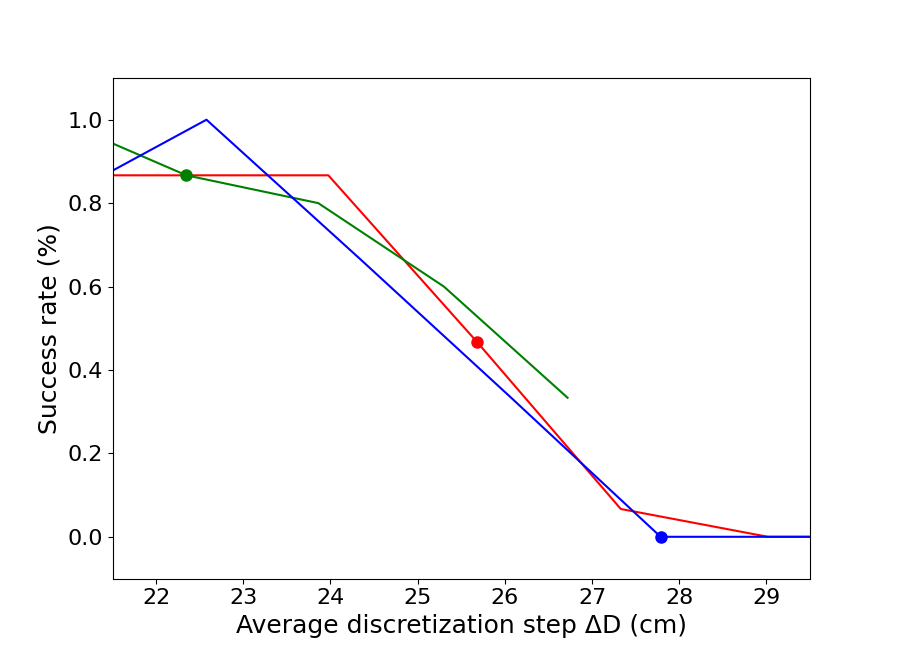
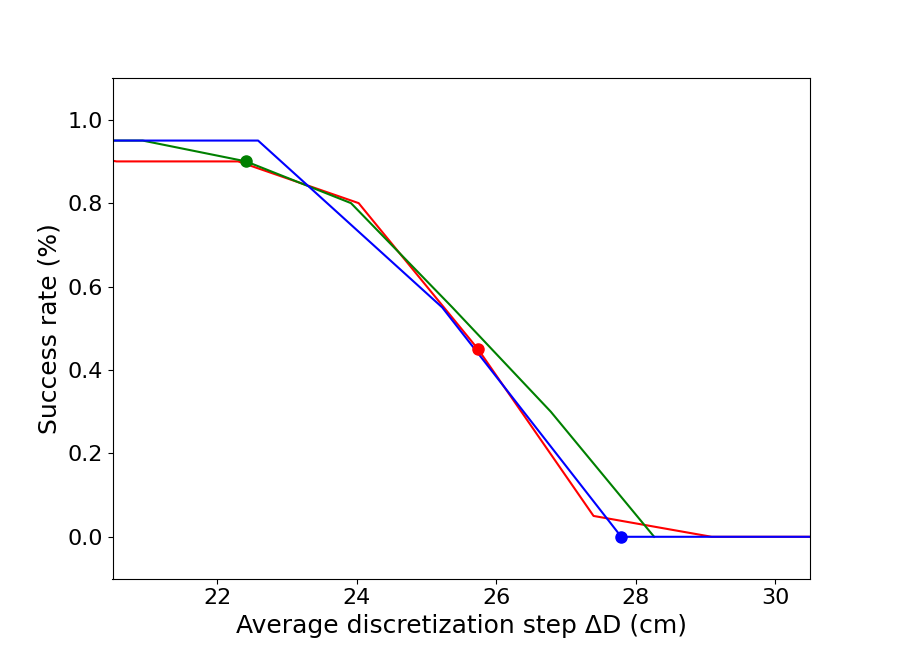
Fix chapitre MIP.

diff --git a/chap_4_mip_sl1m/mip_sl1m.tex b/chap_4_mip_sl1m/mip_sl1m.tex
@@ -257,7 +257,7 @@ Indeed, the guide paths can be discretized to obtain a desired discretization $\
 Contrary to the contact planner presented in the previous chapter, one step is made with a cyclic gait for each discretized root configuration along the guide.
 
 % Constraining the feet orientation.
-The footsteps orientation $R$ can follow the root orientation along the guide (blue arrows in Figure \ref{fig:mip:bauzil_guide_surfaces}).
+The footsteps orientation $R$ can follow the robot root orientation (blue arrows in Figure \ref{fig:mip:bauzil_guide_surfaces}).
 With this approach, $R$ can be given as input of the problem (\ref{eq:mbc:mip_complete:rotation}), thus drastically reducing the dimension of the problem.
 
 % Pruning irrelevant contact surfaces
@@ -373,8 +373,9 @@ Learning curves of LEAS without contact planner, referred as LEAS-P1 (Chapter \r
 %The P2 validation increases its probability to meet a terminal condition (i.e. failing the contact planning) and forces LEAS to adapt its behavior to succeed with the contact planner, resulting in a lower average reward per episode.
 The episode rewards of LEAS-P2 are lower than LEAS-P1 due to the contact planning constraints. 
 As described earlier, we discretize the guide so that when moving at the desired velocity $v_{desired}=0.10$ m/s, the discretization step is equal to $\Delta D=28cm$. 
-This value is at the limit of the capability of the TALOS robot on flat ground. 
-As a consequence, our steering method will have to move the robot root slower to succeed the contact planning on more complex terrains, thus resulting in a lower average reward.
+This value is at the limit of the feasiblity constraints $\mathcal{F}$ (Appendix \ref{appendix:feasibility_constr}) of the TALOS robot on flat ground. 
+Consequently, our steering method has to move the robot root slower to succeed the contact planning on more complex terrains, thus resulting in a lower average reward.
+
 
 
 \subsection{LEAS Results}
@@ -395,7 +396,7 @@ As a consequence, our steering method will have to move the robot root slower to
 % For this one, 5 trajectories should suffice.
 % So it's 2 results on the same scene.
 
-We expect LEAS-P2 to find, depending on the terrain, the maximum discretization step $\Delta D$ feasible by the contact planner along the guide for $N=N_{ref}$.
+We expect LEAS-P2 to find, depending on the terrain, the a sufficiently high discretization step $\Delta D$ feasible by the contact planner along the guide for $N=N_{ref}$.
 On difficult terrains such as rubbles and stairs, LEAS should lower the robot root velocity, and thus $\Delta D$, to ensure the success of the contact planning. 
 On contrary, we expect the robot to push this velocity on easy ones such as flat ground.
 
@@ -425,7 +426,7 @@ On contrary, we expect the robot to push this velocity on easy ones such as flat
             \includegraphics[trim={1cm 0cm 0cm 0cm},clip,width=\textwidth,height=4.5cm]{Figures/Chapter_MIP_SL1M/res_mip/stairs_down.png}
         \end{subfigure}
         \begin{subfigure}{0.48\linewidth}
-            \includegraphics[trim={0cm 0cm 2cm 1.8cm}, clip,width=\textwidth,height=4.5cm]{Figures/Chapter_MIP_SL1M/res_mip/MIP_stairs/FIGURE_MIP_STAIRS_DOWN.png}
+            \includegraphics[trim={0cm 0cm 2cm 1.8cm}, clip,width=\textwidth,height=4.5cm]{Figures/Chapter_MIP_SL1M/res_mip/MIP_stairs/FIGURE_MIP_STAIRS_DOWN_2.png}
         \end{subfigure}
         \caption{Stairs (down)}
         \label{fig:mip:minimizing_basic:1}
@@ -446,34 +447,36 @@ On contrary, we expect the robot to push this velocity on easy ones such as flat
 \end{figure}
 We compare LEAS-P1, LEAS-P2 and RB-Kino on the rubbles and stairs up and down scenarios (Figure \ref{fig:mip:minimizing_basic}).
 For each scenario, the initial robot root is oriented toward the goal with a velocity $v_{init}=0.05$ m/s.
-Each Steering Method (SM) controls the root velocity to potentially reach the desired velocity $v_{desired}=0.10$ m/s, which corresponds to a discretization step $\Delta D=28$ cm with $N_{ref}=14$ at the limit of the contact planning feasibility on flat ground.
+Each steering method controls the root velocity to potentially reach the desired velocity $v_{desired}=0.10$ m/s, which corresponds to a discretization step $\Delta D=28$ cm with $N_{ref}=14$ at the edge of the feasibility constraints $\mathcal{F}$ on flat ground.
 
 We test our steering methods for different values of $N$. 
 We keep 1 out of $N$ configurations along the guide ($N \in \{8,20\}$), which permits to cover a wide discretization step range.
 Indeed, increasing the $N$ value implies a higher average $\Delta D$ along the guide and inversely.
 Each value is tested on 30 trajectories per scenario.
-We represent the result of the steering methods with $N=N_{ref}$ by some colored dots, the value LEAS-P2 has been trained on.
+We represent the result of the steering methods for $N=N_{ref}$ by some colored dots, the value LEAS-P2 has been trained on.
 
 We can observe the success rate of the steering methods depending on their average discretization step for each scenario.
 %The stairs scenario is relatively easy for the steering methods (Figure \ref{fig:mip:minimizing_basic:0}).
-On stairs (up) scenario, results show that they always succeed the contact planning for all $\Delta D \leq 27 cm$.
+On stairs scenarios, results show that they always succeed the contact planning for all $\Delta D \leq 27 cm$.
 However, it is not the case for the rubble scenario that is more complex. Indeed, depending on the reduced set of candidate surfaces for each step, no solution may be found satisfying the equilibrium constraints, and thus the problem may be infeasible.
-Interestingly, we can observe that due to the equilibrium constraints in $\mathcal{F}$, it is easier for the contact planner to climb stairs up than to climb them down. \textcolor{blue}{REMOVE THE BIG HM 80, and retry on stairs down.}
+%Interestingly, we can observe that due to the equilibrium constraints in $\mathcal{F}$, it is easier for the contact planner to climb stairs up than to climb them down. \textcolor{blue}{REMOVE THE BIG HM 80, and retry on stairs down.}
 
 LEAS-P1 is trained to follow the reference velocity $v_{desired}$.
 However, it rarely reaches this velocity in complex scenarios, thus resulting in an average $\Delta D \approx 26$ cm with $N_{ref}$.
 RB-Kino is tuned to keep an average constant velocity $v_{desired}$ all along the guide. As a result, its discretization is mostly uniform along it with $\delta D \approx 28$ cm.
 
-With $N_{ref}$, RB-Kino fails our 3 scenarios. This result is expected as its average discretization step draws near the feasibility limits.
+With $N_{ref}$, RB-Kino fails our 3 scenarios. This result is expected as its average discretization step draws near (or out) the limits of feasibility constraints.
 As a consequence, RB-Kino requires a fine-tuning on the guide discretization adapted to each scenario ($N \leq N_{ref}$).
 In comparison, LEAS-P1 navigates the terrain slower and a value $N_{ref}$ is sufficient for the stairs scenarios. 
 However, this value does not hold anymore on the rubbles (only 50\% of success). 
 Consequently, LEAS-P1 also requires a fine-tuning of its discretization to generate feasible guide paths in this scenario.
 
-Our solution LEAS-P2 on the other hand performs well across all scenarios with $N_{ref}$ it has been trained on (green dots).
-Results show that our method succeeds in having a near maximum feasible discretization step to succeed in the MIP contact planning. 
+Our solution LEAS-P2 on the other hand succeeds all scenarios for $N_{ref}$ it has been trained on (green dots).
+Results show that our method always adopt a sufficiently high discretization step to succeed in the MIP contact planning along the guides. %having a near maximum feasible discretization step to succeed in the MIP contact planning. 
 As a result, it does not require further fine-tuning.
-On average, we can see that LEAS-P2 exhibits a value $\Delta D \in [22, 25]$ cm depending on the terrain difficulty. \textcolor{blue}{To modify after I get the expe on flat floor.}
+However, we can observe that LEAS-P2 considers the stairs (down) scenario as difficult.
+This behavior may require further investigation as it could be due to our training arena, or the terrain representation on the height map that will be discussed later on.
+%On average, we can see that LEAS-P2 exhibits a value $\Delta D \in [22, 25]$ cm depending on the terrain difficulty. \textcolor{blue}{To modify after I get the expe on flat floor.}
 
 
 \paragraph{Long scenario.}
@@ -491,7 +494,7 @@ On average, we can see that LEAS-P2 exhibits a value $\Delta D \in [22, 25]$ cm 
     \begin{subfigure}[t]{0.9\linewidth}
         \includegraphics[trim={4cm 0cm 3.5cm 1.65cm}, clip,width=\textwidth]{Figures/Chapter_MIP_SL1M/res_mip/Long_discr_x_axis.png}
     \end{subfigure}
-    \caption{Long scenario with $N_{ref}$. We plot the discretization steps along the guide path of each steering method. The x-axis matches the terrain pictured above. The $\Delta D$ value of LEAS-P2 correlates with the terrain difficulty.}
+    \caption{Example of trajectory on our long scenario with $N_{ref}$. For each steering method, we plot the discretization steps along the guide path. The x-axis matches the terrain pictured above. The $\Delta D$ value of LEAS-P2 correlates with the terrain difficulty.}
     \label{fig:mip:long_range}
 \end{figure}
 
@@ -514,10 +517,11 @@ We tuned RB-Kino to have an average discretization step of $\Delta D \approx 28$
 Just like in the basic scenarios, LEAS-P1 presents an average discretization step $\Delta D \approx 26$ cm.
 As both steering methods do not plan guides in function of the terrain difficulty, they both fail the contact planning on our long-range scenario with $N_{ref}$ (Figure \ref{fig:mip:long_range:res}).
 
-Our solution LEAS-P2 adapts the discretization step for each the terrain traversed, which correlates with the results of the basic scenarios. 
+Our solution LEAS-P2 adapts the discretization step for each the terrain traversed.%, which correlates with the results of the basic scenarios. 
 On average LEAS-P2 has a lower discretization step $\Delta D \approx 24$ cm.
-We can also observe that LEAS-P2 exhibits smaller discretization steps on difficult terrains (rubbles and stairs down), and higher ones on the others (bridge, stairs up, and ground floor).
-Thanks to this capability, LEAS-P2 is the only method to succeed with $N_{ref}$ in our long scenario (Figure \ref{fig:mip:long_range:res}), whereas other methods require further fine-tuning of the guide discretization to be feasible by our MIP contact planner.
+
+We can also observe that it exhibits smaller discretization steps on terrains it deemed difficult (rubbles and stairs down), and higher ones on the others (bridge, stairs up, and ground floor).
+Thanks to this capability, LEAS-P2 can succeed the MIP contact planning with $N_{ref}$ in our long scenario (Figure \ref{fig:mip:long_range:res}), whereas other methods require further fine-tuning of the guide discretization.
 
 
 
@@ -532,12 +536,17 @@ To solve this limitation, we presented a solution using our steering method LEAS
 As a result, it can generate feasible problems for the MIP contact planner, while reducing the number of steps of this locomotion task.
 
 
-\paragraph{Detection of small height variations on the terrain.}
-We added to the states a scalar representing the number of potential candidate surfaces around the robot.
-This state was required as values in the observable height map were not accurate enough to efficiently detect small height variations on scenarios like rubbles.
-However, it is still unclear how this parameter impacts the agent decision, and other solutions could be explored to estimate the terrain traversability \cite{lin_traversability_2018, brandao_multimode_2019}.
+\paragraph{Traversability estimation.}
+As discussed in Chapter \cite{sec:LEAS}, tuning the upper and lower bounds of the z-value in the height map is critical to have a correct terrain representation.
+Trivially, setting wider bounds will permit a better detection of large obstacles. However, it hinders the detection of small height variations on the terrain such as rubbles.
+Several strategies could be explored to fix such problems, such as using convolutional neural networks as previously discussed, or giving as observation a second tighter bounded height map.
 
-\paragraph{Guide path discretization.}
+In this thesis, we kept the height map bounds used in previous chapters and we added to the number of potential candidate surfaces around the robot as an observable state.
+This state permitted to LEAS to better detect difficult terrains, however, it is still unclear how this parameter impacts the agent decision. 
+In the future, other methods could be explored to estimate the terrain traversability \cite{lin_traversability_2018, brandao_multimode_2019}.
+%was required as values in the observable height map were not accurate enough to efficiently detect small height variations on scenarios like rubbles.
+
+\paragraph{Contact planning awareness and guide discretization.}
 We discretize the guide path in input of the contact planner by keeping 1 out of $N_{ref}$ configurations.
 However our RL agent does not know which state corresponds to a step inside the contact planner.
 As a consequence, our steering method only adapts the robot velocity along the guide depending on the terrain, and implicitely the discretizaton steps $\Delta D$.

diff --git a/appendix.tex b/appendix.tex
@@ -24,11 +24,11 @@ The constraint can be formulated as follows:
 \begin{equation}
     \label{eq:equilibrium_constr}
     \begin{aligned}
-        F^{j}_{k-1} (c_{k,\:0}-p_{k-1}) &\leq  f_{k-1}^{j} + M a_{k-1}^{j}\\
-        F^{j}_{k} (c_{k,\:1}-p_{k}) &\leq  f^j_{k} + M a{k}^{j}
+        F_{k-1} (c_{k,\:0}-p_{k-1}) &\leq  f_{k-1}\\% + M a_{k-1}^{j}\\
+        F_{k} (c_{k,\:1}-p_{k}) &\leq  f_{k}% + M a{k}^{j}
     \end{aligned}
 \end{equation}
-where $F_k^j$ and $f_k^j$ are the matrix and vector defining the polygonal shape of the foot at $p_k$ on surface $S^j$, and M .
+where $F_k$ and $f_k$ are the matrix and vector defining the polygonal shape of the foot at $p_k$ (considering the contact lies on flat ground).
 Constraints (\ref{eq:equilibrium_constr}) depends only on the xy coordinates of the COM.
 As a result, by convexity of the static equilibrium regions, the straight lines $[c_{k,\:0}, c_{k,\:1}]$ continuously satisfies the static equilibrium
 constraint, as well as $[c_{k-1,\:1}, c_{k,\:0}]$ and $[c_{k,\:1}, c_{k+1,\:0}]$ as the COM stays above the corresponding support effector.
@@ -39,21 +39,23 @@ A 3D polytope $\mathcal{R}$ is obtained for each effector (feet in our case) via
 The resulting polytope is expressed as follows: $\mathcal{R} : \{c \in \mathbb{R}^3 , \; \! R c \; \leq \; \! r\}$.
 
 For each phase $k$, we consider the orientation of the foot frame constant and equal to $r_{k-1}$.
-We note $\mathcal{R}_k^j$ the rotated polytope associated with contact $p_{k}$, lieing on surface $\mathcal{S}^j$.
-The COM positions $c_{k,\:0}$ and $c_{k,\:1}$ are constrained by the two active contacts $p_{k-1}$ and $p_{k}$:
+We note $\mathcal{R}_k$ the rotated polytope associated with contact $p_{k}$.
+For phase $k$, the contraints on the COM positions $c_{k,\:0}$ and $c_{k,\:1}$ can be formulated as follows:
 \begin{equation}
-    R_{l}^j (c_{l,e} - p_{l}) \leq r_l^j + M a_l^j \;\;\;\; \forall j, \forall l \in \{k-1,k\}
+    %R_{l}^j (c_{l,e} - p_{l}) \leq r_l^j + M a_l^j \;\;\;\; \forall j, \forall l \in \{k-1,k\}
+    R_{l} (c_{l,e} - p_{l}) \leq r_l \;\;\;\; \forall l \in \{k-1,k\}
 \end{equation}
 
 \paragraph{Relative foot position constraints.\label{appendix:foot_pos_constr}}
 Just as for the COM reachability, a 3D polytope $\mathcal{Q}$ is randomly sampled offline (or manually given) to approximate the reachable workspace of each foot with respect to the other. The polytope rotated by $r_{k-1}$ then translated by $p_{k-1}$ can be expressed as $\mathcal{Q}_k: \{ p \in \mathbb{R}^3, Q_k p \leq q_k \}$.
-For $p_{k-1}$ lieing on surface $\mathcal{S}^j$, the constraint on foot positions $p_{k-1}$ and $p_k$ can be formulated as follows:
+For phase $k$, the relative foot position constraints can be formulated as follows:
 \begin{equation}
-    \mathcal{Q}_{k-1}^j (p_k - p_{k-1}) \leq q_{k-1}^j + M a_{k-1}^j \;\;\;\; \forall j
+    %\mathcal{Q}_{k-1}^j (p_k - p_{k-1}) \leq q_{k-1}^j + M a_{k-1}^j \;\;\;\; \forall j
+    \mathcal{Q}_{k-1} (p_k - p_{k-1}) \leq q_{k-1} + M a_{k-1}
 \end{equation}
 
 \section{Complete MIP Formulation \label{appendix:complete_mip_formulation}}
-The complete formulation of the contact-before-motion MIP contact planning problem with the center of mass positions and the feasibility constraints of previous Appendix \ref{appendix:feasibility_constr} is as follows:
+The complete formulation of the contact-before-motion MIP contact planning problem with the center of mass positions and the feasibility constraints of previous Appendix \ref{appendix:feasibility_constr} is:
 
 \begin{align}
     \textrm{\textbf{given}} %\quad & \mathcal{I}=\{p_0^{left}, r_0^{left},p_0^{right}, r_0^{right}\} \nonumber\\
@@ -77,9 +79,14 @@ The complete formulation of the contact-before-motion MIP contact planning probl
                                     \quad & \quad \quad S^j p_i \leq s^j + M a_i^j  \nonumber\\
                                     \quad & \quad \quad (p_i)^{\intercal} \textbf{n}^j = e^j + \beta_i^j \nonumber\\
                                     \quad & \quad \quad ||\beta_i^j||_1 \leq M a_i^j \nonumber\\
-                                    \quad & \quad \quad \textcolor{blue}{F^{j}_{i-1} (c_{i,\:0}-p_{i-1}) \leq  f_{i-1}^{j} + M a_{i-1}^{j} } \nonumber\\
-                                    \quad & \quad \quad \textcolor{blue}{F^{j}_{i} (c_{i,\:1}-p_{i}) \leq  f^j_{i} + M a{i}^{j} }  \nonumber\\
-                                    \quad & \quad \quad \textcolor{blue}{R_{i}^j (c_{i,e} - p_{i}) \leq r_i^j + M a_i^j }  \nonumber\\
-                                    \quad & \quad \quad \textcolor{blue}{R_{i-1}^j (c_{i-1,e} - p_{i-1}) \leq r_{i-1}^j + M a_{i-1}^j } \nonumber\\
-                                    \quad & \quad \quad \textcolor{blue}{\mathcal{Q}_{i-1}^j (p_i - p_{i-1}) \leq q_{i-1}^j + M a_{i-1}^j} \nonumber
+                                    %\quad & \quad \quad \textcolor{blue}{F^{j}_{i-1} (c_{i,\:0}-p_{i-1}) \leq  f_{i-1}^{j} + M a_{i-1}^{j} } \nonumber\\
+                                    %\quad & \quad \quad \textcolor{blue}{F^{j}_{i} (c_{i,\:1}-p_{i}) \leq  f^j_{i} + M a{i}^{j} }  \nonumber\\
+                                    %\quad & \quad \quad \textcolor{blue}{R_{i}^j (c_{i,e} - p_{i}) \leq r_i^j + M a_i^j }  \nonumber\\
+                                    %\quad & \quad \quad \textcolor{blue}{R_{i-1}^j (c_{i-1,e} - p_{i-1}) \leq r_{i-1}^j + M a_{i-1}^j } \nonumber\\
+                                    %\quad & \quad \quad \textcolor{blue}{\mathcal{Q}_{i-1}^j (p_i - p_{i-1}) \leq q_{i-1}^j + M a_{i-1}^j} \nonumber
+                                    \quad & \quad \quad \textcolor{blue}{F_{i-1} (c_{i,\:0}-p_{i-1}) \leq  f_{i-1} + M a_{i-1} } \nonumber\\
+                                    \quad & \quad \quad \textcolor{blue}{F_{i} (c_{i,\:1}-p_{i}) \leq  f_{i} + M a{i} }  \nonumber\\
+                                    \quad & \quad \quad \textcolor{blue}{R_{i} (c_{i,e} - p_{i}) \leq r_i + M a_i }  \nonumber\\
+                                    \quad & \quad \quad \textcolor{blue}{R_{i-1} (c_{i-1,e} - p_{i-1}) \leq r_{i-1} + M a_{i-1} } \nonumber\\
+                                    \quad & \quad \quad \textcolor{blue}{\mathcal{Q}_{i-1} (p_i - p_{i-1}) \leq q_{i-1} + M a_{i-1}} \nonumber
 \end{align}
